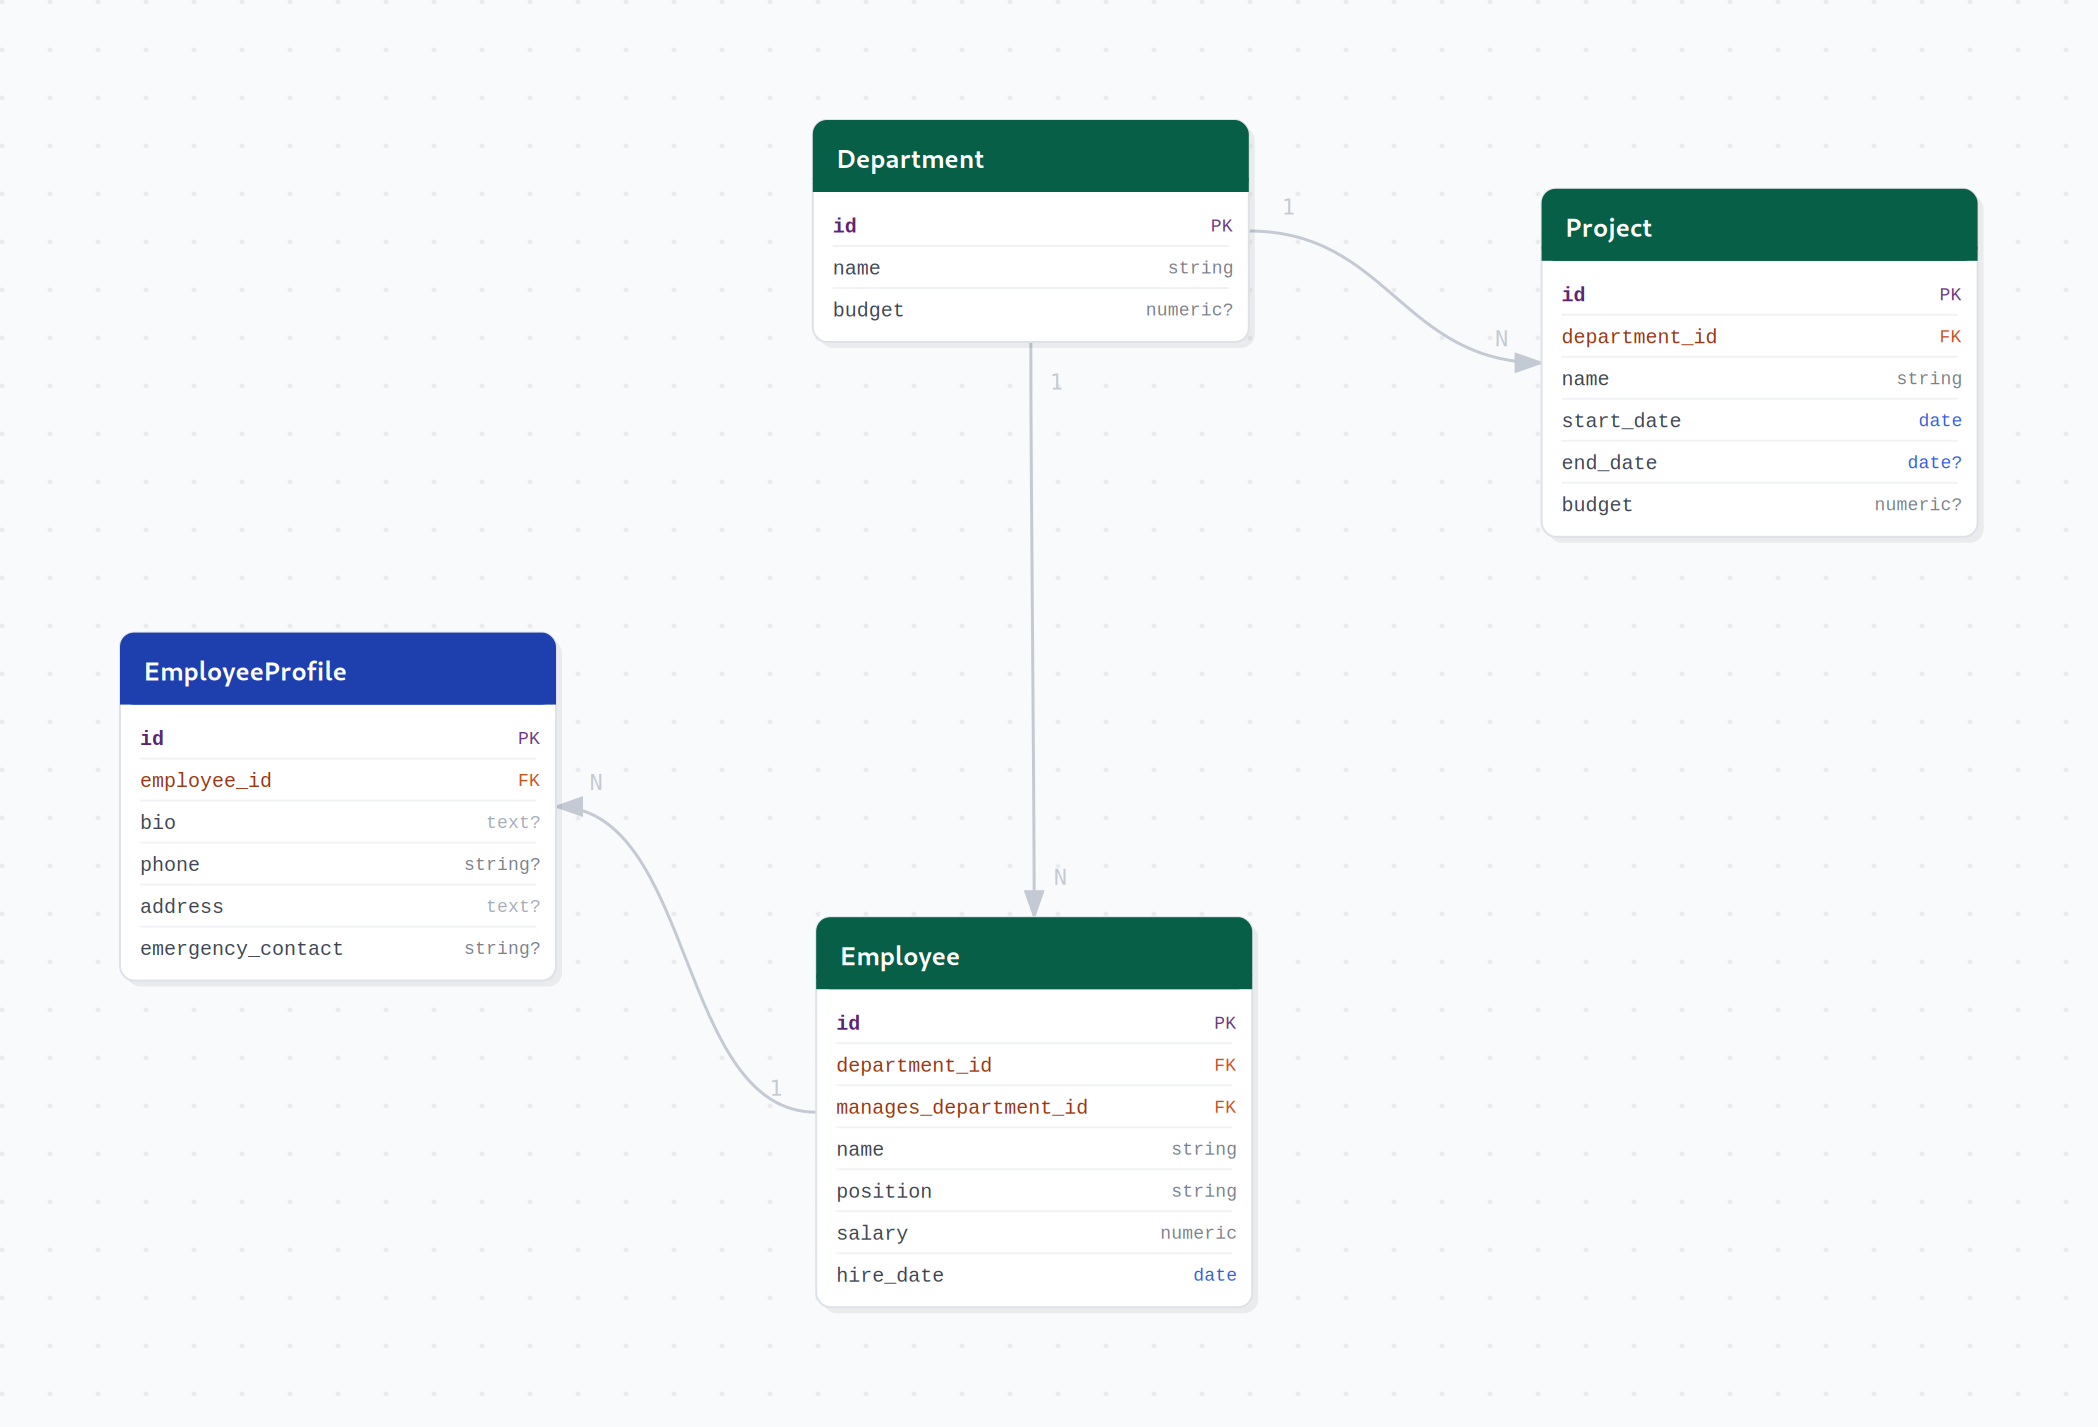
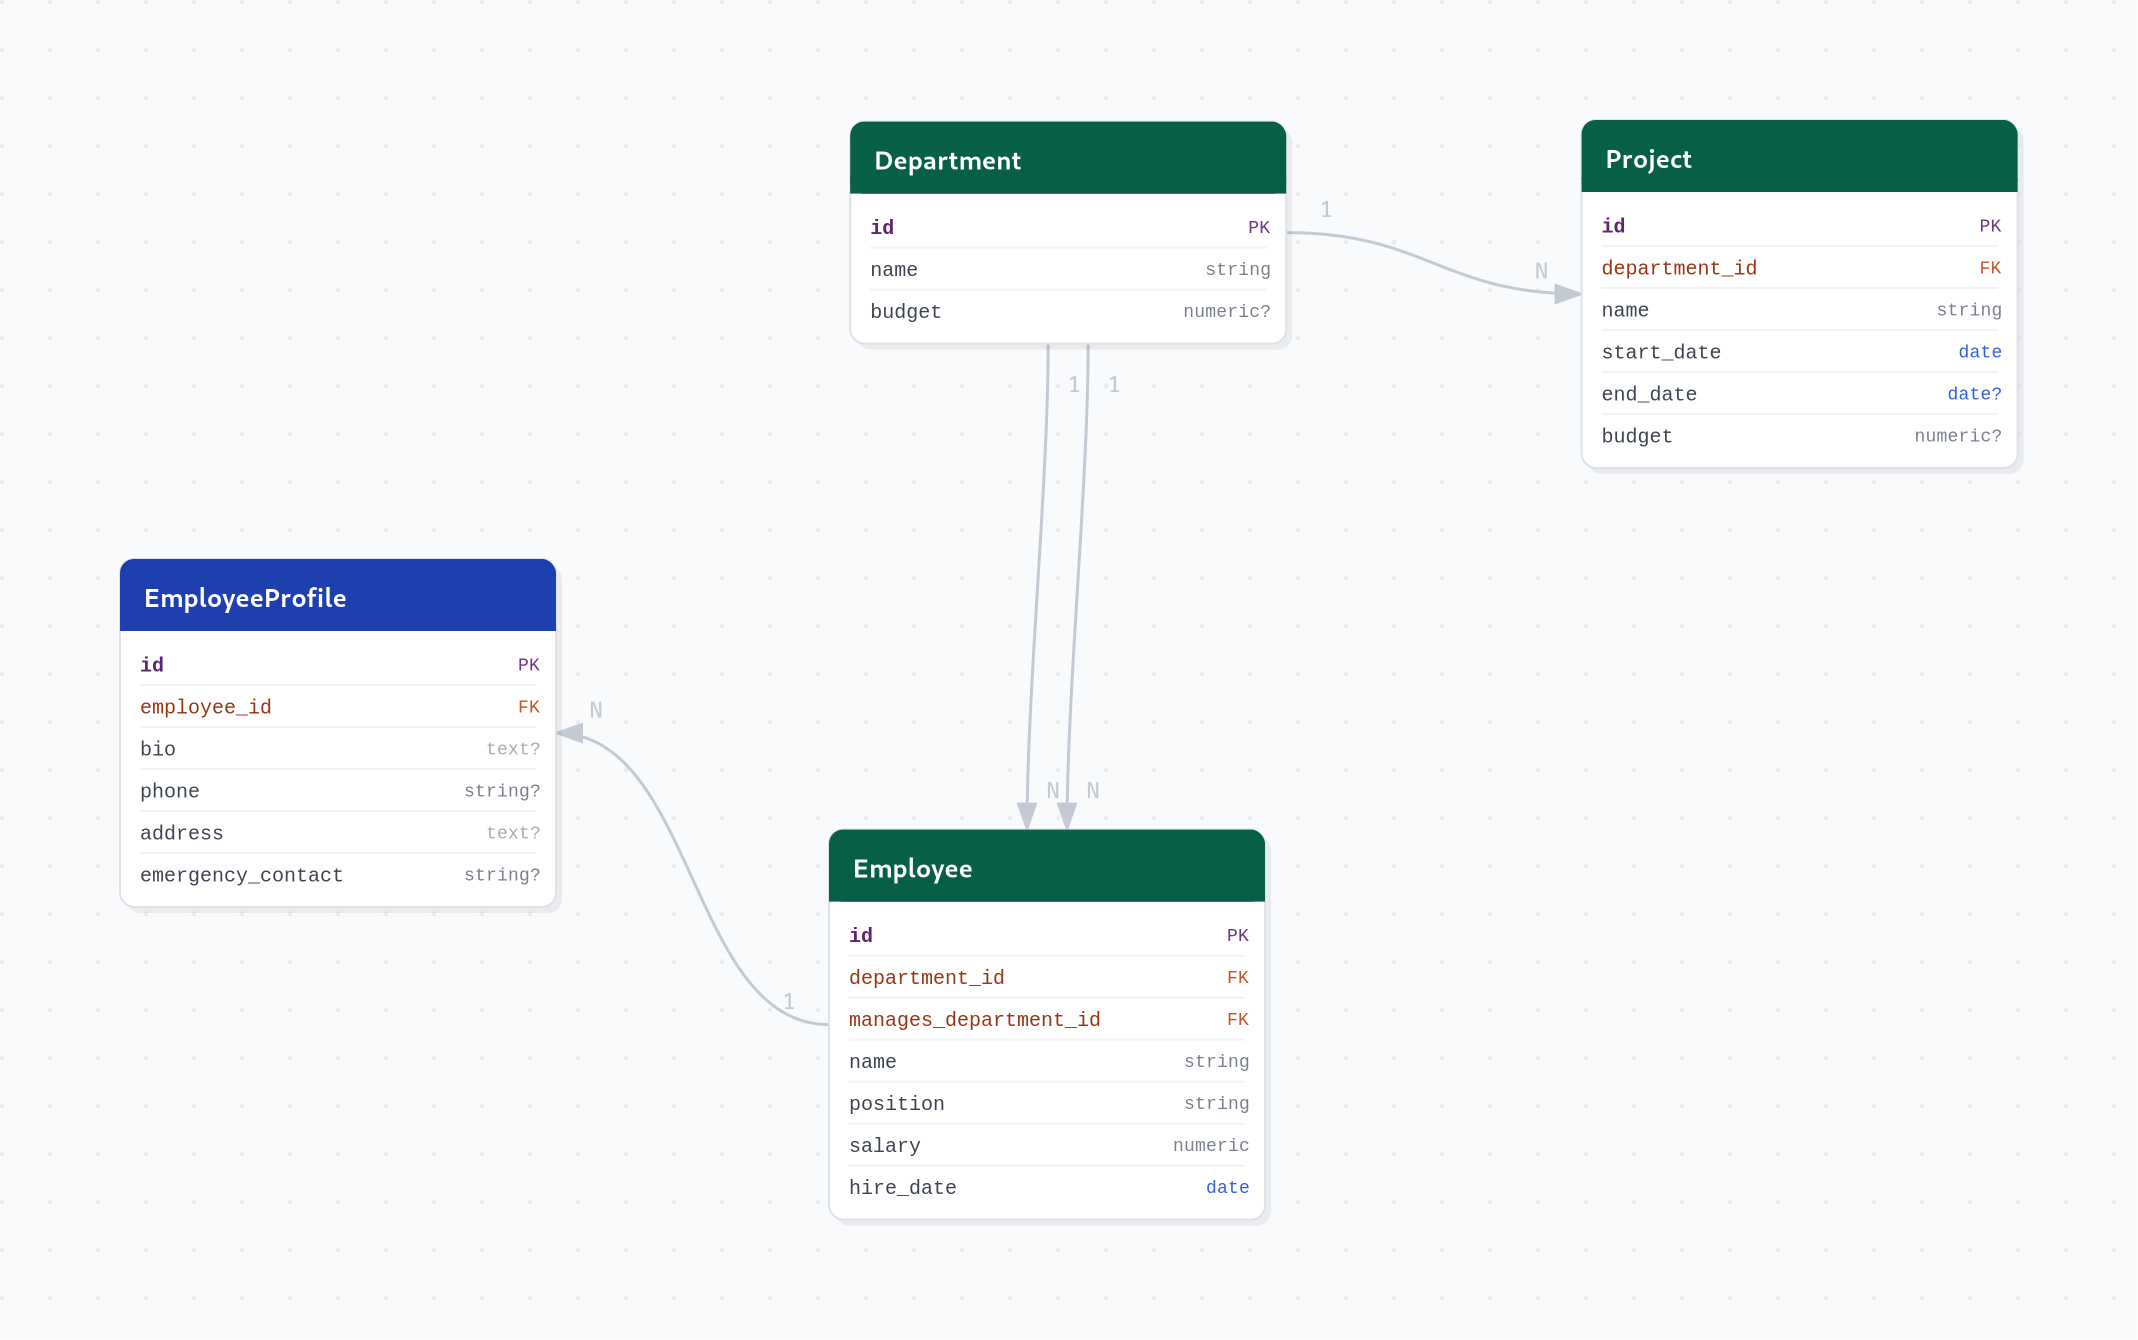
fix(introspect): render all FKs when multiple point to the same target
The seen_fks deduplication key now includes the column name, so each FK
gets its own relationship edge even when two columns reference the same
parent table (e.g. assignee_id and reviewer_id both → users.id).

Add parallel edge offset in both SVG and HTML renderers so multiple
arrows between the same pair of tables are visually distinguishable.

Closes #3

diff --git a/src/sqlalchemy_erd/renderer.py b/src/sqlalchemy_erd/renderer.py
@@ -70,6 +70,17 @@ def _make_path(
     return f"M {fp[0]} {fp[1]} C {c1x} {c1y} {c2x} {c2y} {tp[0]} {tp[1]}"
 
 
+def _offset_parallel(
+    fp: tuple[float, float],
+    tp: tuple[float, float],
+    side: Side,
+    shift: float,
+) -> tuple[tuple[float, float], tuple[float, float]]:
+    if side in ("left", "right"):
+        return (fp[0], fp[1] + shift), (tp[0], tp[1] + shift)
+    return (fp[0] + shift, fp[1]), (tp[0] + shift, tp[1])
+
+
 def _label_pos(pt: tuple[float, float], side: Side) -> tuple[float, float]:
     ax, ay = _side_vec(side, 20)
     if side in ("top", "bottom"):
@@ -121,6 +132,12 @@ def render_svg(
 
     multi_schema = bool(theme.schema_colors)
 
+    pair_counts: dict[tuple[str, str], int] = {}
+    pair_index: dict[tuple[str, str], int] = {}
+    for rel in relationships:
+        key = (min(rel.from_table, rel.to_table), max(rel.from_table, rel.to_table))
+        pair_counts[key] = pair_counts.get(key, 0) + 1
+
     for rel in relationships:
         if rel.from_table not in table_map or rel.to_table not in table_map:
             continue
@@ -131,6 +148,16 @@ def render_svg(
         fs, ts = _best_side(fp, ft, tp, tt)
         fpt = _conn_pt(fp, ft, fs)
         tpt = _conn_pt(tp, tt, ts)
+
+        key = (min(rel.from_table, rel.to_table), max(rel.from_table, rel.to_table))
+        total = pair_counts[key]
+        idx = pair_index.get(key, 0)
+        pair_index[key] = idx + 1
+        if total > 1:
+            spread = 20
+            shift = (idx - (total - 1) / 2) * spread
+            fpt, tpt = _offset_parallel(fpt, tpt, fs, shift)
+
         path_d = _make_path(fpt, fs, tpt, ts)
         is_nn = rel.from_card == "N" and rel.to_card == "N"
         is_cross = multi_schema and (

diff --git a/src/sqlalchemy_erd/html_renderer.py b/src/sqlalchemy_erd/html_renderer.py
@@ -145,6 +145,13 @@ function labelPos(pt, side) {{
   return [pt[0]+a[0]+p[0], pt[1]+a[1]+p[1]];
 }}
 
+function offsetParallel(fp, tp, side, shift) {{
+  if (side === 'left' || side === 'right') {{
+    return [[fp[0], fp[1]+shift], [tp[0], tp[1]+shift]];
+  }}
+  return [[fp[0]+shift, fp[1]], [tp[0]+shift, tp[1]]];
+}}
+
 // ── Render ──
 const NS = 'http://www.w3.org/2000/svg';
 function el(tag, attrs, parent) {{
@@ -179,11 +186,25 @@ function render() {{
   el('rect', {{ width:'100%', height:'100%', fill:'url(#erd-dots)' }}, svg);
 
   // Edges — tagged with data attributes for updateHighlights
+  const pairCounts = {{}};
+  const pairIdx = {{}};
+  for (const rel of RELATIONS) {{
+    const k = [rel.from, rel.to].sort().join('|');
+    pairCounts[k] = (pairCounts[k] || 0) + 1;
+  }}
   for (const rel of RELATIONS) {{
     if (!ENTITY_MAP[rel.from] || !ENTITY_MAP[rel.to]) continue;
     const [fs, ts] = bestSide(rel.from, rel.to);
-    const fp = connPt(rel.from, fs);
-    const tp = connPt(rel.to, ts);
+    let fp = connPt(rel.from, fs);
+    let tp = connPt(rel.to, ts);
+    const k = [rel.from, rel.to].sort().join('|');
+    const total = pairCounts[k];
+    const idx = pairIdx[k] || 0;
+    pairIdx[k] = idx + 1;
+    if (total > 1) {{
+      const shift = (idx - (total - 1) / 2) * 20;
+      [fp, tp] = offsetParallel(fp, tp, fs, shift);
+    }}
     const d = makePath(fp, fs, tp, ts);
     const isNN = rel.fromCard === 'N' && rel.toCard === 'N';
     const fe = ENTITY_MAP[rel.from], te = ENTITY_MAP[rel.to];